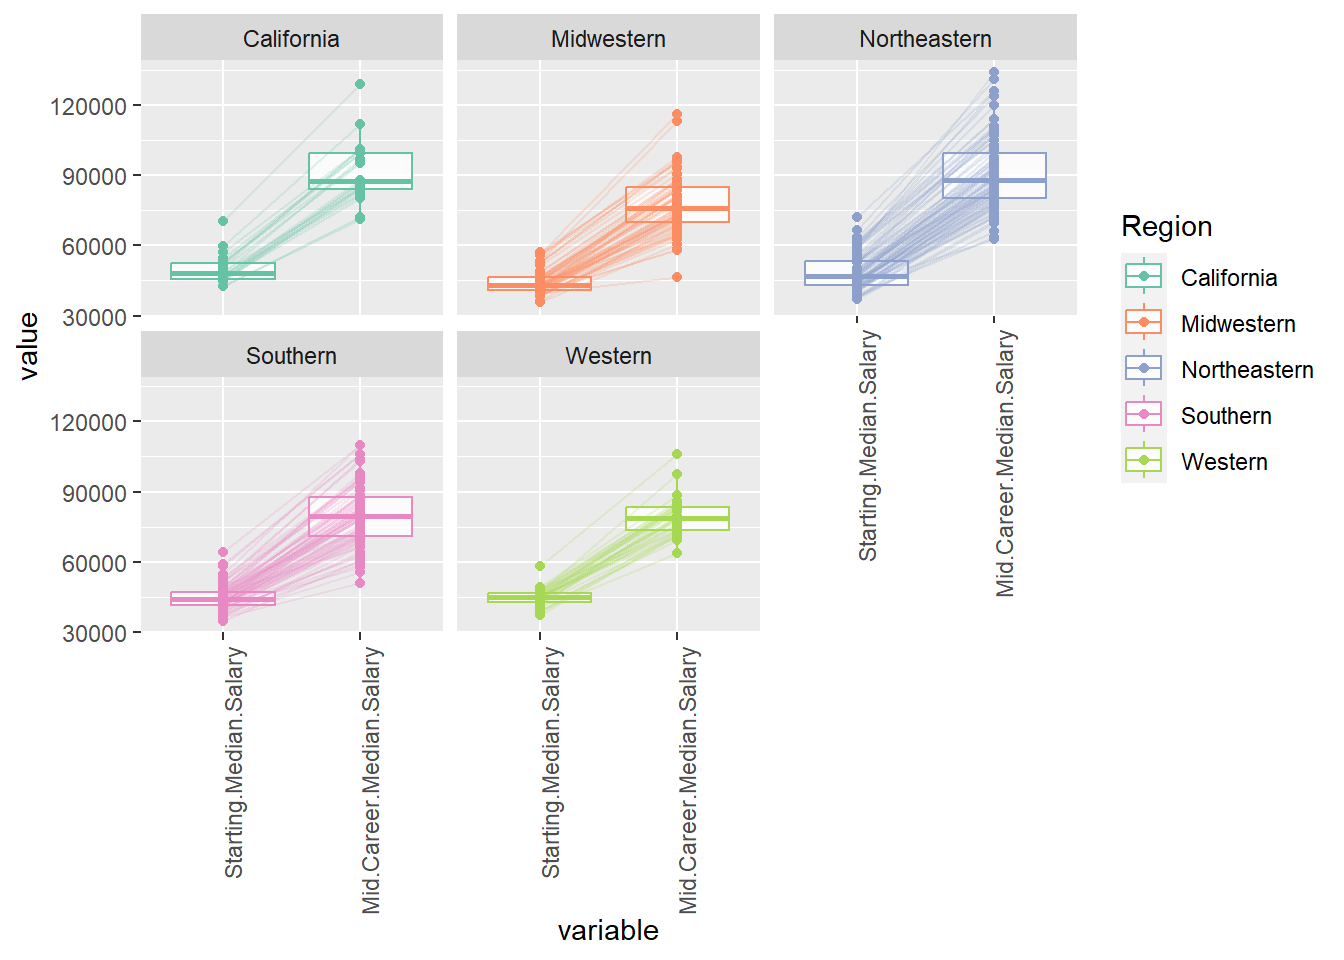
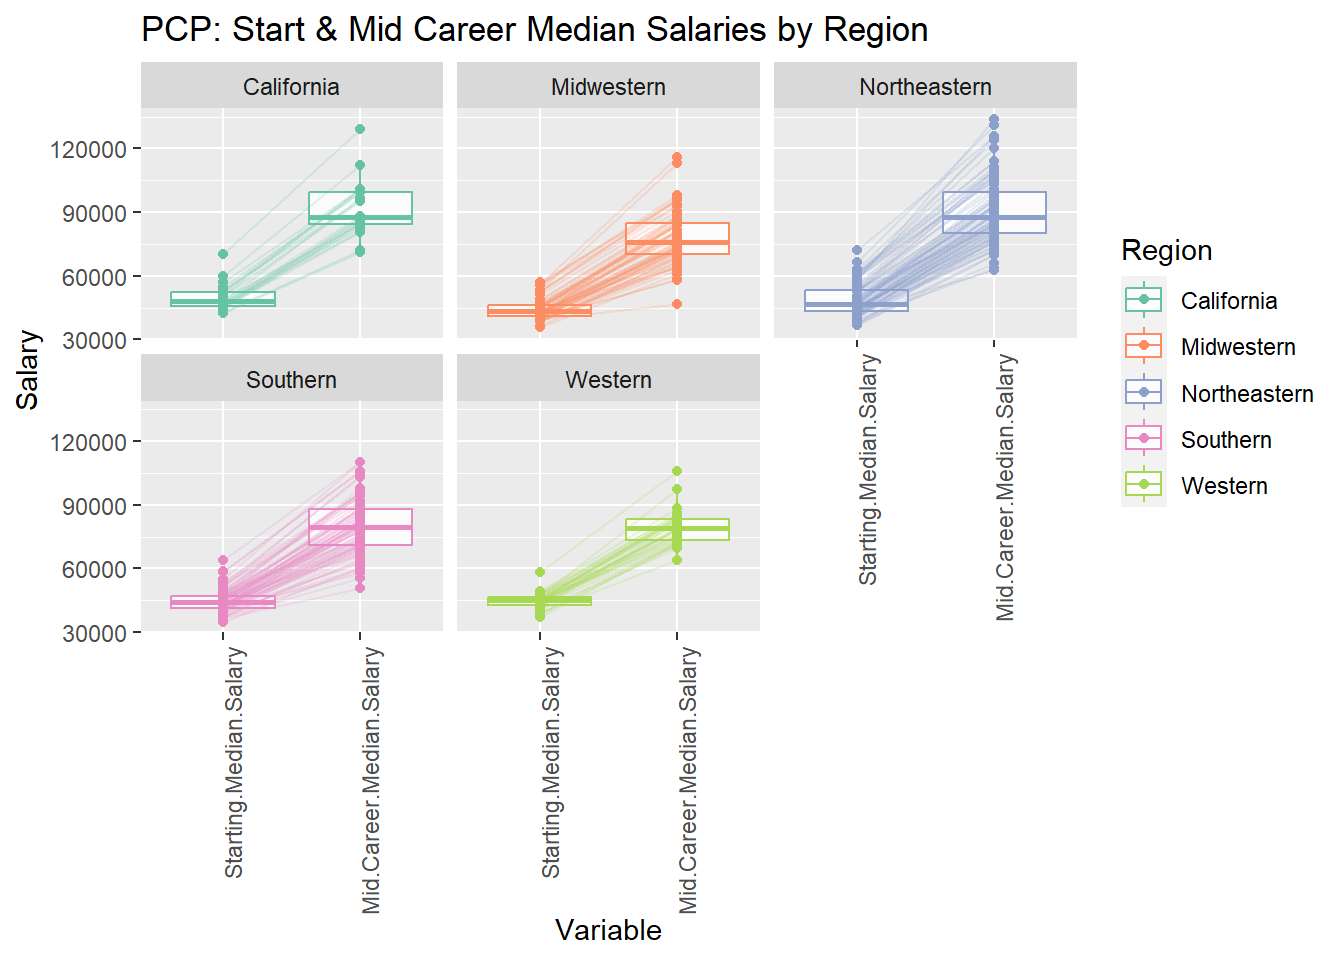
Modified visuals according to best practices

diff --git a/docs/results.html b/docs/results.html
@@ -212,8 +212,6 @@ code span.wa { color: #60a0b0; font-weight: bold; font-style: italic; } /* Warni
   <li><a href="#salaries-by-region-parallel-coordinate-plot" id="toc-salaries-by-region-parallel-coordinate-plot" class="nav-link" data-scroll-target="#salaries-by-region-parallel-coordinate-plot"><span class="toc-section-number">3.4.2</span>  Salaries by Region (Parallel Coordinate Plot)</a></li>
   </ul></li>
   <li><a href="#part-4-why-we-are-not-joining-tables" id="toc-part-4-why-we-are-not-joining-tables" class="nav-link" data-scroll-target="#part-4-why-we-are-not-joining-tables"><span class="toc-section-number">3.5</span>  Part 4: Why we are not joining tables</a></li>
-  <li><a href="#conclusion-what-weve-woven" id="toc-conclusion-what-weve-woven" class="nav-link" data-scroll-target="#conclusion-what-weve-woven"><span class="toc-section-number">4</span>  Conclusion: What We’ve Woven</a></li>
-  <li><a href="#final-thoughts" id="toc-final-thoughts" class="nav-link" data-scroll-target="#final-thoughts"><span class="toc-section-number">5</span>  Final Thoughts</a></li>
   </ul>
 <div class="toc-actions"><div><i class="bi bi-github"></i></div><div class="action-links"><p><a href="https://github.com/harindermashiana/collegeSalaries.git/edit/main/results.qmd" class="toc-action">Edit this page</a></p><p><a href="https://github.com/harindermashiana/collegeSalaries.git/issues/new" class="toc-action">Report an issue</a></p></div></div></nav>
     </div>
@@ -541,7 +539,8 @@ code span.wa { color: #60a0b0; font-weight: bold; font-style: italic; } /* Warni
 <span id="cb10-12"><a href="#cb10-12" aria-hidden="true" tabindex="-1"></a>  <span class="at">boxplot =</span> <span class="cn">TRUE</span>,</span>
 <span id="cb10-13"><a href="#cb10-13" aria-hidden="true" tabindex="-1"></a>  <span class="co"># order = c(3, 5, 6, 4, 7, 8)</span></span>
 <span id="cb10-14"><a href="#cb10-14" aria-hidden="true" tabindex="-1"></a>) <span class="sc">+</span> <span class="fu">theme</span>(<span class="at">axis.text.x =</span> <span class="fu">element_text</span>(<span class="at">angle =</span> <span class="dv">90</span>, <span class="at">hjust =</span> <span class="dv">1</span>)) <span class="sc">+</span></span>
-<span id="cb10-15"><a href="#cb10-15" aria-hidden="true" tabindex="-1"></a>  <span class="fu">scale_color_brewer</span>(<span class="at">palette =</span> <span class="st">"Set2"</span>) <span class="sc">+</span>  <span class="fu">facet_wrap</span>(<span class="sc">~</span> School.Type, <span class="at">ncol =</span> <span class="dv">3</span>) </span></code><button title="Copy to Clipboard" class="code-copy-button"><i class="bi"></i></button></pre></div>
+<span id="cb10-15"><a href="#cb10-15" aria-hidden="true" tabindex="-1"></a>  <span class="fu">scale_color_brewer</span>(<span class="at">palette =</span> <span class="st">"Set2"</span>) <span class="sc">+</span>  <span class="fu">facet_wrap</span>(<span class="sc">~</span> School.Type, <span class="at">ncol =</span> <span class="dv">3</span>) <span class="sc">+</span></span>
+<span id="cb10-16"><a href="#cb10-16" aria-hidden="true" tabindex="-1"></a>  <span class="fu">labs</span>(<span class="at">title =</span> <span class="st">"PCP: Start &amp; Mid Career Median Salaries by College Type"</span>, <span class="at">x =</span> <span class="st">"Variable"</span>, <span class="at">y =</span> <span class="st">"Salary"</span>)</span></code><button title="Copy to Clipboard" class="code-copy-button"><i class="bi"></i></button></pre></div>
 </details>
 <div class="cell-output-display">
 <p><img src="results_files/figure-html/unnamed-chunk-10-1.png" class="img-fluid" width="672"></p>
@@ -571,7 +570,8 @@ code span.wa { color: #60a0b0; font-weight: bold; font-style: italic; } /* Warni
 <span id="cb11-11"><a href="#cb11-11" aria-hidden="true" tabindex="-1"></a>  <span class="at">splineFactor =</span> <span class="cn">FALSE</span>,</span>
 <span id="cb11-12"><a href="#cb11-12" aria-hidden="true" tabindex="-1"></a>  <span class="at">order =</span> <span class="fu">c</span>(<span class="dv">5</span>, <span class="dv">6</span>, <span class="dv">4</span>, <span class="dv">7</span>, <span class="dv">8</span>)</span>
 <span id="cb11-13"><a href="#cb11-13" aria-hidden="true" tabindex="-1"></a>) <span class="sc">+</span> <span class="fu">theme</span>(<span class="at">axis.text.x =</span> <span class="fu">element_text</span>(<span class="at">angle =</span> <span class="dv">90</span>, <span class="at">hjust =</span> <span class="dv">1</span>)) <span class="sc">+</span></span>
-<span id="cb11-14"><a href="#cb11-14" aria-hidden="true" tabindex="-1"></a>  <span class="fu">scale_color_brewer</span>(<span class="at">palette =</span> <span class="st">"Set2"</span>) <span class="sc">+</span> <span class="fu">facet_wrap</span>(<span class="sc">~</span> School.Type) <span class="sc">+</span>  <span class="fu">scale_y_continuous</span>(<span class="at">labels =</span> scales<span class="sc">::</span><span class="fu">comma_format</span>())</span></code><button title="Copy to Clipboard" class="code-copy-button"><i class="bi"></i></button></pre></div>
+<span id="cb11-14"><a href="#cb11-14" aria-hidden="true" tabindex="-1"></a>  <span class="fu">scale_color_brewer</span>(<span class="at">palette =</span> <span class="st">"Set2"</span>) <span class="sc">+</span> <span class="fu">facet_wrap</span>(<span class="sc">~</span> School.Type) <span class="sc">+</span>  <span class="fu">scale_y_continuous</span>(<span class="at">labels =</span> scales<span class="sc">::</span><span class="fu">comma_format</span>()) <span class="sc">+</span></span>
+<span id="cb11-15"><a href="#cb11-15" aria-hidden="true" tabindex="-1"></a>  <span class="fu">labs</span>(<span class="at">title =</span> <span class="st">"Distribution of Mid Career Median Salaries by College Type"</span>, <span class="at">x =</span> <span class="st">"Variable"</span>, <span class="at">y =</span> <span class="st">"Salary"</span>)</span></code><button title="Copy to Clipboard" class="code-copy-button"><i class="bi"></i></button></pre></div>
 </details>
 <div class="cell-output-display">
 <p><img src="results_files/figure-html/unnamed-chunk-11-1.png" class="img-fluid" width="672"></p>
@@ -603,7 +603,8 @@ code span.wa { color: #60a0b0; font-weight: bold; font-style: italic; } /* Warni
 <span id="cb12-12"><a href="#cb12-12" aria-hidden="true" tabindex="-1"></a>   <span class="at">boxplot =</span> <span class="cn">TRUE</span>,</span>
 <span id="cb12-13"><a href="#cb12-13" aria-hidden="true" tabindex="-1"></a>  <span class="co"># order = c(3, 5, 6, 4, 7, 8)</span></span>
 <span id="cb12-14"><a href="#cb12-14" aria-hidden="true" tabindex="-1"></a>) <span class="sc">+</span> <span class="fu">theme</span>(<span class="at">axis.text.x =</span> <span class="fu">element_text</span>(<span class="at">angle =</span> <span class="dv">90</span>, <span class="at">hjust =</span> <span class="dv">1</span>)) <span class="sc">+</span></span>
-<span id="cb12-15"><a href="#cb12-15" aria-hidden="true" tabindex="-1"></a>  <span class="fu">scale_color_brewer</span>(<span class="at">palette =</span> <span class="st">"Set2"</span>) <span class="sc">+</span>  <span class="fu">facet_wrap</span>(<span class="sc">~</span> Region, <span class="at">ncol =</span> <span class="dv">3</span>)</span></code><button title="Copy to Clipboard" class="code-copy-button"><i class="bi"></i></button></pre></div>
+<span id="cb12-15"><a href="#cb12-15" aria-hidden="true" tabindex="-1"></a>  <span class="fu">scale_color_brewer</span>(<span class="at">palette =</span> <span class="st">"Set2"</span>) <span class="sc">+</span>  <span class="fu">facet_wrap</span>(<span class="sc">~</span> Region, <span class="at">ncol =</span> <span class="dv">3</span>)<span class="sc">+</span></span>
+<span id="cb12-16"><a href="#cb12-16" aria-hidden="true" tabindex="-1"></a>  <span class="fu">labs</span>(<span class="at">title =</span> <span class="st">"PCP: Start &amp; Mid Career Median Salaries by Region"</span>, <span class="at">x =</span> <span class="st">"Variable"</span>, <span class="at">y =</span> <span class="st">"Salary"</span>)</span></code><button title="Copy to Clipboard" class="code-copy-button"><i class="bi"></i></button></pre></div>
 </details>
 <div class="cell-output-display">
 <p><img src="results_files/figure-html/unnamed-chunk-12-1.png" class="img-fluid" width="672"></p>
@@ -631,7 +632,7 @@ code span.wa { color: #60a0b0; font-weight: bold; font-style: italic; } /* Warni
 <span id="cb13-9"><a href="#cb13-9" aria-hidden="true" tabindex="-1"></a>   <span class="at">boxplot =</span> <span class="cn">FALSE</span>,</span>
 <span id="cb13-10"><a href="#cb13-10" aria-hidden="true" tabindex="-1"></a>  <span class="at">order =</span> <span class="fu">c</span>(<span class="dv">5</span>, <span class="dv">6</span>, <span class="dv">4</span>, <span class="dv">7</span>, <span class="dv">8</span>)</span>
 <span id="cb13-11"><a href="#cb13-11" aria-hidden="true" tabindex="-1"></a>) <span class="sc">+</span> <span class="fu">theme</span>(<span class="at">axis.text.x =</span> <span class="fu">element_text</span>(<span class="at">angle =</span> <span class="dv">90</span>, <span class="at">hjust =</span> <span class="dv">1</span>)) <span class="sc">+</span></span>
-<span id="cb13-12"><a href="#cb13-12" aria-hidden="true" tabindex="-1"></a>  <span class="fu">scale_color_brewer</span>(<span class="at">palette =</span> <span class="st">"Set2"</span>) <span class="sc">+</span>  <span class="fu">facet_wrap</span>(<span class="sc">~</span> Region, <span class="at">ncol =</span> <span class="dv">3</span>) <span class="sc">+</span>  <span class="fu">scale_y_continuous</span>(<span class="at">labels =</span> scales<span class="sc">::</span><span class="fu">comma_format</span>())</span></code><button title="Copy to Clipboard" class="code-copy-button"><i class="bi"></i></button></pre></div>
+<span id="cb13-12"><a href="#cb13-12" aria-hidden="true" tabindex="-1"></a>  <span class="fu">scale_color_brewer</span>(<span class="at">palette =</span> <span class="st">"Set2"</span>) <span class="sc">+</span>  <span class="fu">facet_wrap</span>(<span class="sc">~</span> Region, <span class="at">ncol =</span> <span class="dv">3</span>) <span class="sc">+</span>  <span class="fu">scale_y_continuous</span>(<span class="at">labels =</span> scales<span class="sc">::</span><span class="fu">comma_format</span>()) <span class="sc">+</span> <span class="fu">labs</span>(<span class="at">title =</span> <span class="st">"Distribution of Mid Career Median Salaries by Region"</span>, <span class="at">x =</span> <span class="st">"Variable"</span>, <span class="at">y =</span> <span class="st">"Salary"</span>)</span></code><button title="Copy to Clipboard" class="code-copy-button"><i class="bi"></i></button></pre></div>
 </details>
 <div class="cell-output-display">
 <p><img src="results_files/figure-html/unnamed-chunk-13-1.png" class="img-fluid" width="672"></p>
@@ -656,7 +657,7 @@ code span.wa { color: #60a0b0; font-weight: bold; font-style: italic; } /* Warni
 <span id="cb14-8"><a href="#cb14-8" aria-hidden="true" tabindex="-1"></a>  <span class="fu">geom_tile</span>(<span class="at">color =</span> <span class="st">"white"</span>) <span class="sc">+</span></span>
 <span id="cb14-9"><a href="#cb14-9" aria-hidden="true" tabindex="-1"></a>  <span class="fu">scale_fill_manual</span>(<span class="at">values =</span> <span class="fu">c</span>(<span class="st">"TRUE"</span> <span class="ot">=</span> <span class="st">"red"</span>, <span class="st">"FALSE"</span> <span class="ot">=</span> <span class="st">"green"</span>), <span class="at">guide =</span> <span class="cn">FALSE</span>) <span class="sc">+</span></span>
 <span id="cb14-10"><a href="#cb14-10" aria-hidden="true" tabindex="-1"></a>  <span class="fu">labs</span>(<span class="at">title =</span> <span class="st">"Null Value Plot for Joined Table"</span>,</span>
-<span id="cb14-11"><a href="#cb14-11" aria-hidden="true" tabindex="-1"></a>       <span class="at">x =</span> <span class="st">"Variable"</span>,</span>
+<span id="cb14-11"><a href="#cb14-11" aria-hidden="true" tabindex="-1"></a>       <span class="at">x =</span> <span class="st">"Variables"</span>,</span>
 <span id="cb14-12"><a href="#cb14-12" aria-hidden="true" tabindex="-1"></a>       <span class="at">y =</span> <span class="st">"School Name"</span>) <span class="sc">+</span></span>
 <span id="cb14-13"><a href="#cb14-13" aria-hidden="true" tabindex="-1"></a>  <span class="fu">theme</span>(<span class="at">axis.text.y =</span> <span class="fu">element_blank</span>(), <span class="at">axis.text.x =</span> <span class="fu">element_blank</span>())</span>
 <span id="cb14-14"><a href="#cb14-14" aria-hidden="true" tabindex="-1"></a></span>
@@ -669,14 +670,6 @@ code span.wa { color: #60a0b0; font-weight: bold; font-style: italic; } /* Warni
 </div>
 <p>In both the tables, salaries-by-region and salaries-by-college-type, we have a column called School.Name. To delve deeper into the data set and see if there are significant relationships between region and college type regarding salaries, we can try merging the two tables. But, when we do that, we observe that the School.Name columns in both the tables are not exactly the same.</p>
 <p>When we try merging them, we notice that there are some schools in both tables that are unique to them and not present in the other which created rows with null values. This number of rows with null values is not a small number which we can deal with by dropping the rows, and hence we analyze the two tables separately and try to find a relation without merging them.</p>
-</section>
-<section id="conclusion-what-weve-woven" class="level1" data-number="4">
-<h1 data-number="4"><span class="header-section-number">4</span> Conclusion: What We’ve Woven</h1>
-<p>As we step back, the picture becomes clear. The journey through college, majors, and careers is complex, nuanced, and individualized. There’s no one-size-fits-all, and every decision we make adds a unique thread to our personal tapestry.</p>
-</section>
-<section id="final-thoughts" class="level1" data-number="5">
-<h1 data-number="5"><span class="header-section-number">5</span> Final Thoughts</h1>
-<p>In our exploration, we’ve revealed the interconnectedness of choices, regions, and aspirations. The data tells a story of diversity, challenges, and opportunities. This tapestry is ever-evolving, shaped by the dreams and efforts of each student, contributing to the vibrant mosaic of our collective educational journey.</p>
 
 
 </section>

diff --git a/docs/d3graph.html b/docs/d3graph.html
@@ -159,7 +159,7 @@ ul.task-list li input[type="checkbox"] {
 <h3 class="anchored">
 Select the appropriate category to display the top 10 majors.
 </h3>
-<p><button onclick="updateData('Starting Career Salary')">By Starting Median Salary</button> <button onclick="updateData('Mid Career Salary')">By Mid Career Median Salary</button> <button onclick="updateData('% change Starting to Mid Career Salary')">By Percent Change Start-Mid Career Salary</button></p>
+<p><button onclick="updateData('Starting Career Salary')">By Starting Median Salary</button> <button onclick="updateData('Mid Career Salary')">By Mid Career Median Salary</button> <button onclick="updateData('%change Starting-Mid Career Salary')">By Percent Change Start-Mid Career Salary</button></p>
 </div>
 <script src="https://cdn.jsdelivr.net/npm/d3@7"></script>
 <script src="scripts/myscript.js"></script>

diff --git a/docs/scripts/myscript.js b/docs/scripts/myscript.js
@@ -14,7 +14,7 @@
 
     // Set up the SVG container
     const svgWidth = 600;
-    const svgHeight = 400;
+    const svgHeight = 425;
     const margin = { top: 20, right: 20, bottom: 120, left: 120 };
 
     const svg = d3.select('#plot')
@@ -125,7 +125,7 @@
                 { category: 'Mechanical Engineering', value: 93600 },
                 { category: 'Math', value: 92400 }
             ],
-            '% change Starting to Mid Career Salary': [
+            '%change Starting-Mid Career Salary': [
                 { category: 'Math', value: 103.5 },
                 { category: 'Philosophy', value: 103.5},
                 { category: 'International Relations', value: 97.8	 },
